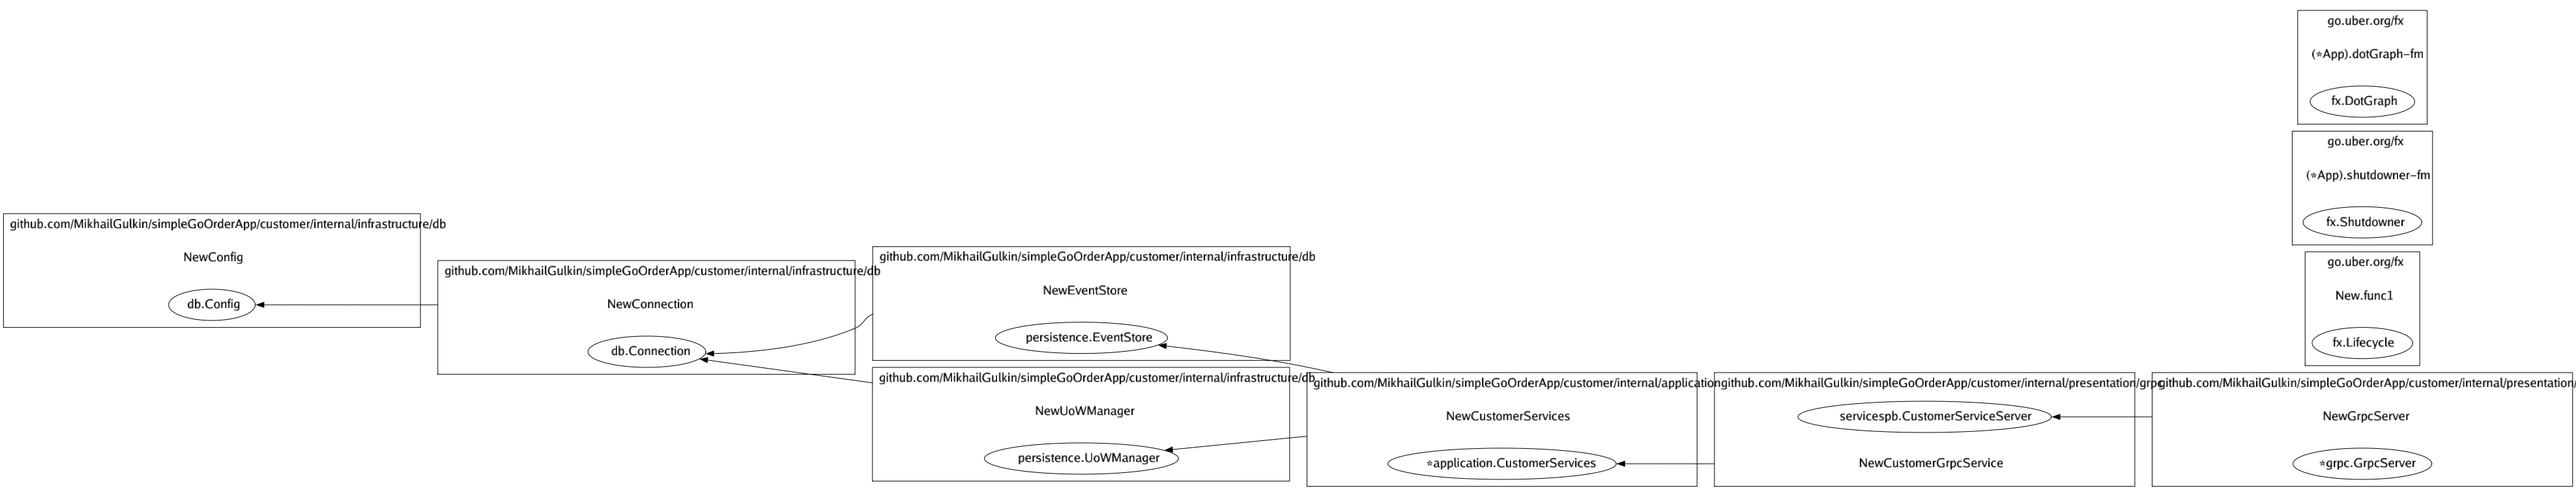
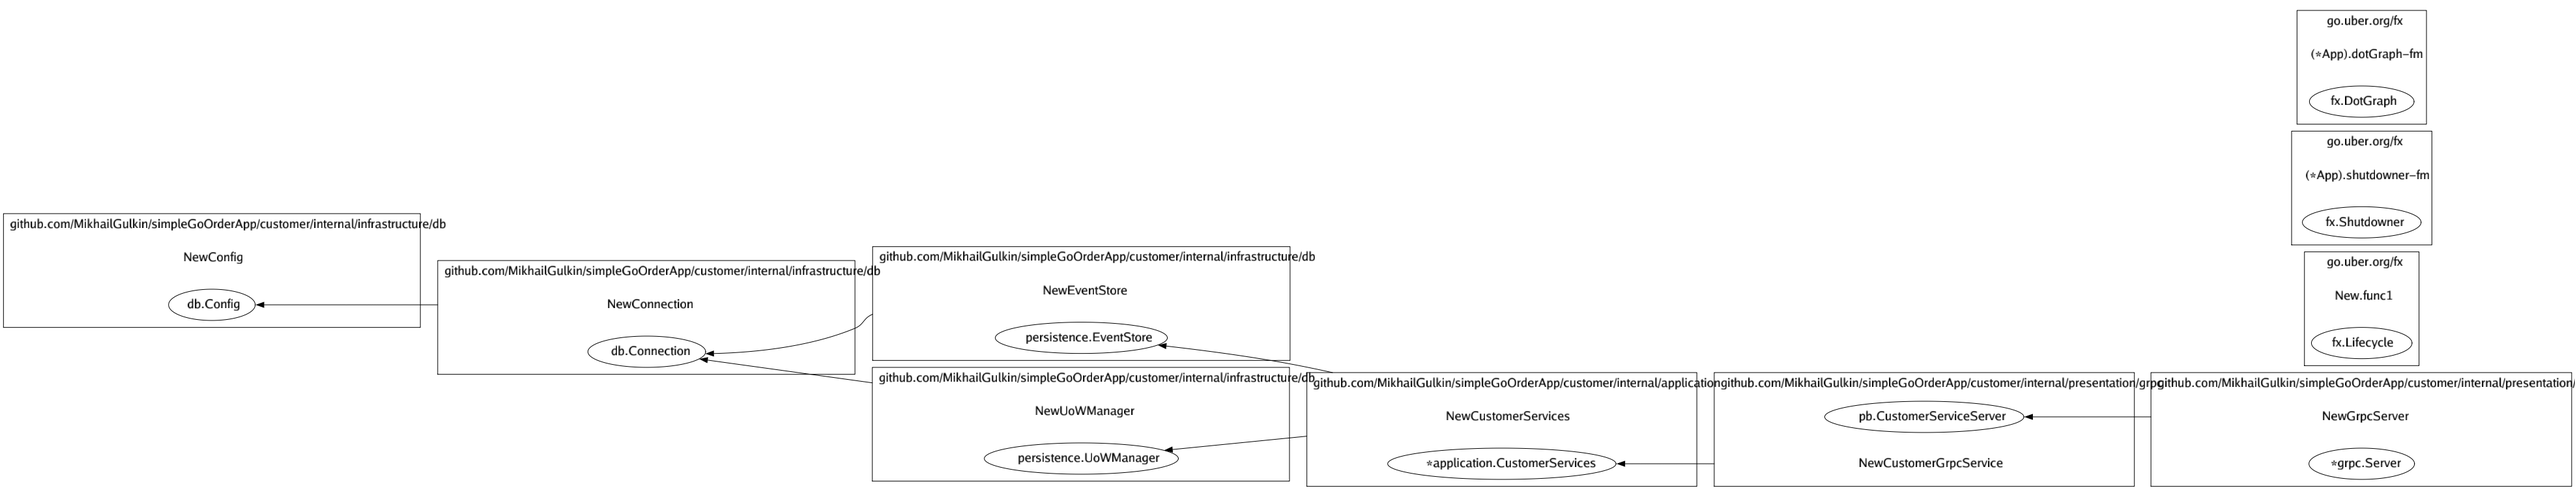
some ch

diff --git a/customer/internal/presentation/grpc/server.go b/customer/internal/presentation/grpc/server.go
@@ -2,7 +2,7 @@ package grpc
 
 import (
 	"fmt"
-	"github.com/MikhailGulkin/simpleGoOrderApp/customer/internal/presentation/grpc/servicespb"
+	"github.com/MikhailGulkin/simpleGoOrderApp/customer/internal/presentation/grpc/pb"
 	"google.golang.org/grpc"
 	"google.golang.org/grpc/keepalive"
 	"google.golang.org/grpc/reflection"
@@ -18,25 +18,25 @@ const (
 	gRPCTime          = 10
 )
 
-type GrpcServer struct {
-	service servicespb.CustomerServiceServer
+type Server struct {
+	service pb.CustomerServiceServer
 }
 
-func NewGrpcServer(service servicespb.CustomerServiceServer) *GrpcServer {
-	return &GrpcServer{
+func NewGrpcServer(service pb.CustomerServiceServer) *Server {
+	return &Server{
 		service: service,
 	}
 }
 
-func (g *GrpcServer) Run() error {
+func (g *Server) Run(port string) error {
 	s := grpc.NewServer(grpc.KeepaliveParams(keepalive.ServerParameters{
 		MaxConnectionIdle: maxConnectionIdle * time.Minute,
 		Timeout:           gRPCTimeout * time.Second,
 		MaxConnectionAge:  maxConnectionAge * time.Minute,
 		Time:              gRPCTime * time.Minute,
 	}))
-	servicespb.RegisterCustomerServiceServer(s, g.service)
-	lis, err := net.Listen("tcp", fmt.Sprintf(":%d", 50052))
+	pb.RegisterCustomerServiceServer(s, g.service)
+	lis, err := net.Listen("tcp", fmt.Sprintf(":%s", port))
 
 	if err != nil {
 		log.Fatalf("Failed to listen: %v", err)

diff --git a/customer/internal/presentation/grpc/service.go b/customer/internal/presentation/grpc/service.go
@@ -4,7 +4,7 @@ import (
 	"context"
 	"github.com/MikhailGulkin/simpleGoOrderApp/customer/internal/application"
 	"github.com/MikhailGulkin/simpleGoOrderApp/customer/internal/application/commands"
-	"github.com/MikhailGulkin/simpleGoOrderApp/customer/internal/presentation/grpc/servicespb"
+	"github.com/MikhailGulkin/simpleGoOrderApp/customer/internal/presentation/grpc/pb"
 	"github.com/google/uuid"
 )
 
@@ -12,14 +12,14 @@ type CustomerGrpcService struct {
 	cs *application.CustomerServices
 }
 
-func NewCustomerGrpcService(cs *application.CustomerServices) servicespb.CustomerServiceServer {
+func NewCustomerGrpcService(cs *application.CustomerServices) pb.CustomerServiceServer {
 	return &CustomerGrpcService{
 		cs: cs,
 	}
 }
 func (s *CustomerGrpcService) CreateCustomer(
-	_ context.Context, request *servicespb.CreateCustomerRequest,
-) (*servicespb.CreateCustomerResponse, error) {
+	_ context.Context, request *pb.CreateCustomerRequest,
+) (*pb.CreateCustomerResponse, error) {
 	customerID, customerErr := uuid.Parse(request.CustomerID)
 	if customerErr != nil {
 		return nil, customerErr
@@ -41,7 +41,7 @@ func (s *CustomerGrpcService) CreateCustomer(
 	if err != nil {
 		return nil, err
 	}
-	return &servicespb.CreateCustomerResponse{
+	return &pb.CreateCustomerResponse{
 		Id:      response.CustomerID,
 		EventID: response.EventID,
 	}, nil

diff --git a/customer-gateway/internal/graphql/graphql.go b/customer-gateway/internal/graphql/graphql.go
@@ -3,25 +3,21 @@ package graphql
 
 import (
 	"github.com/99designs/gqlgen/graphql"
-	"github.com/MikhailGulkin/simpleGoOrderApp/customer-gateway/internal/grpc"
+	"github.com/MikhailGulkin/simpleGoOrderApp/customer-gateway/internal/grpc/pb"
 )
 
 type Server struct {
-	customerClient *grpc.Client
+	customerClient pb.CustomerServiceClient
 }
 
-func NewGraphQLServer(customerUrl string) (*Server, error) {
-	customerClient, err := grpc.NewClient(customerUrl)
-	if err != nil {
-		return nil, err
-	}
+func NewGraphQLServer(client pb.CustomerServiceClient) (*Server, error) {
 	return &Server{
-		customerClient: customerClient,
+		customerClient: client,
 	}, nil
 }
 func (s *Server) Mutation() MutationResolver {
 	return &mutationResolver{
-		client: s.customerClient.Client,
+		client: s.customerClient,
 	}
 }
 func (s *Server) Query() QueryResolver {

diff --git a/customer-gateway/cmd/main.go b/customer-gateway/cmd/main.go
@@ -1,19 +1,26 @@
 package main
 
 import (
+	"fmt"
 	"github.com/99designs/gqlgen/handler"
+	"github.com/MikhailGulkin/CleanGolangOrderApp/pkg/env"
 	"github.com/MikhailGulkin/simpleGoOrderApp/customer-gateway/internal/graphql"
+	"github.com/MikhailGulkin/simpleGoOrderApp/customer-gateway/internal/grpc"
 	"log"
 	"net/http"
 )
 
 func main() {
-	s, err := graphql.NewGraphQLServer("localhost:50052")
+	grpcClient, err := grpc.NewClient(env.GetEnv("GRPC_CLIENT", "localhost:50052"))
+	if err != nil {
+		log.Fatal(err)
+	}
+	s, err := graphql.NewGraphQLServer(grpcClient)
 	if err != nil {
 		log.Fatal(err)
 	}
 
 	http.Handle("/graphql", handler.GraphQL(s.ToExecutableSchema()))
 
-	log.Fatal(http.ListenAndServe(":8080", nil))
+	log.Fatal(http.ListenAndServe(fmt.Sprintf(":%s", env.GetEnv("GRAPH_PORT", "8001")), nil))
 }

diff --git a/customer-gateway/internal/graphql/mutation_resolver.go b/customer-gateway/internal/graphql/mutation_resolver.go
@@ -2,19 +2,19 @@ package graphql
 
 import (
 	"context"
-	"github.com/MikhailGulkin/simpleGoOrderApp/customer-gateway/internal/grpc/servicespb"
+	"github.com/MikhailGulkin/simpleGoOrderApp/customer-gateway/internal/grpc/pb"
 	"time"
 )
 
 type mutationResolver struct {
-	client servicespb.CustomerServiceClient
+	client pb.CustomerServiceClient
 }
 
 func (r *mutationResolver) CreateCustomer(ctx context.Context, input CustomerInput) (*CustomerResponse, error) {
 	ctx, cancel := context.WithTimeout(ctx, 3*time.Second)
 	defer cancel()
 
-	customer, err := r.client.CreateCustomer(ctx, &servicespb.CreateCustomerRequest{
+	customer, err := r.client.CreateCustomer(ctx, &pb.CreateCustomerRequest{
 		CustomerID: input.ID,
 		FirstName:  input.FirstName,
 		MiddleName: input.MiddleName,

diff --git a/customer-gateway/internal/grpc/grpc.go b/customer-gateway/internal/grpc/grpc.go
@@ -1,19 +1,16 @@
 package grpc
 
 import (
-	"github.com/MikhailGulkin/simpleGoOrderApp/customer-gateway/internal/grpc/servicespb"
+	"github.com/MikhailGulkin/simpleGoOrderApp/customer-gateway/internal/grpc/pb"
 	"google.golang.org/grpc"
+	"google.golang.org/grpc/credentials/insecure"
 )
 
-type Client struct {
-	Client servicespb.CustomerServiceClient
-}
-
-func NewClient(url string) (*Client, error) {
-	conn, err := grpc.Dial(url, grpc.WithInsecure())
+func NewClient(url string) (pb.CustomerServiceClient, error) {
+	conn, err := grpc.Dial(url, grpc.WithTransportCredentials(insecure.NewCredentials()))
 	if err != nil {
 		return nil, err
 	}
-	c := servicespb.NewCustomerServiceClient(conn)
-	return &Client{c}, nil
+	c := pb.NewCustomerServiceClient(conn)
+	return c, nil
 }

diff --git a/customer/internal/presentation/grpc/grpc.go b/customer/internal/presentation/grpc/grpc.go
@@ -3,6 +3,7 @@ package grpc
 import (
 	"context"
 	"fmt"
+	"github.com/MikhailGulkin/CleanGolangOrderApp/pkg/env"
 	"go.uber.org/fx"
 )
 
@@ -14,7 +15,7 @@ var Module = fx.Options(
 	fx.Invoke(Start),
 )
 
-func Start(lifecycle fx.Lifecycle, server *GrpcServer) {
+func Start(lifecycle fx.Lifecycle, server *Server) {
 	lifecycle.Append(
 		fx.Hook{
 			OnStart: func(context.Context) error {
@@ -24,7 +25,7 @@ func Start(lifecycle fx.Lifecycle, server *GrpcServer) {
 							fmt.Printf("Recovered when boot grpc server, r %s", r)
 						}
 					}()
-					err := server.Run()
+					err := server.Run(env.GetEnv("GRPC_PORT", "50052"))
 					if err != nil {
 						panic(err)
 					}

diff --git a/customer/internal/application/commands/create_customer.go b/customer/internal/application/commands/create_customer.go
@@ -41,13 +41,15 @@ func (c *createCustomerHandler) Handle(command CreateCustomerCommand) (CustomerC
 	if err := customer.CreateCustomer(fullName, command.AddressID, email); err != nil {
 		return CustomerCreateDTO{}, err
 	}
+
+	if err := c.EventStore.Exists(customer.GetID()); err != nil {
+		return CustomerCreateDTO{}, err
+	}
 	uow := c.UoWManager.GetUoW()
+
 	tx, errTx := uow.Begin()
 	if errTx != nil {
 		return CustomerCreateDTO{}, errTx
-	}
-	if err := c.EventStore.Exists(customer.GetID()); err != nil {
-		return CustomerCreateDTO{}, err
 	}
 	if err := c.EventStore.Create(customer, tx); err != nil {
 		return CustomerCreateDTO{}, err

diff --git a/customer-gateway/internal/grpc/pb/customer.pb.go b/customer-gateway/internal/grpc/pb/customer.pb.go
@@ -4,7 +4,7 @@
 // 	protoc        v3.15.8
 // source: customer.proto
 
-package servicespb
+package pb
 
 import (
 	protoreflect "google.golang.org/protobuf/reflect/protoreflect"

diff --git a/customer/internal/presentation/grpc/pb/customer.pb.go b/customer/internal/presentation/grpc/pb/customer.pb.go
@@ -4,7 +4,7 @@
 // 	protoc        v3.15.8
 // source: customer.proto
 
-package servicespb
+package pb
 
 import (
 	protoreflect "google.golang.org/protobuf/reflect/protoreflect"

diff --git a/customer-gateway/internal/grpc/pb/customer_grpc.pb.go b/customer-gateway/internal/grpc/pb/customer_grpc.pb.go
@@ -4,7 +4,7 @@
 // - protoc             v3.15.8
 // source: customer.proto
 
-package servicespb
+package pb
 
 import (
 	context "context"

diff --git a/customer/internal/presentation/grpc/pb/customer_grpc.pb.go b/customer/internal/presentation/grpc/pb/customer_grpc.pb.go
@@ -4,7 +4,7 @@
 // - protoc             v3.15.8
 // source: customer.proto
 
-package servicespb
+package pb
 
 import (
 	context "context"
